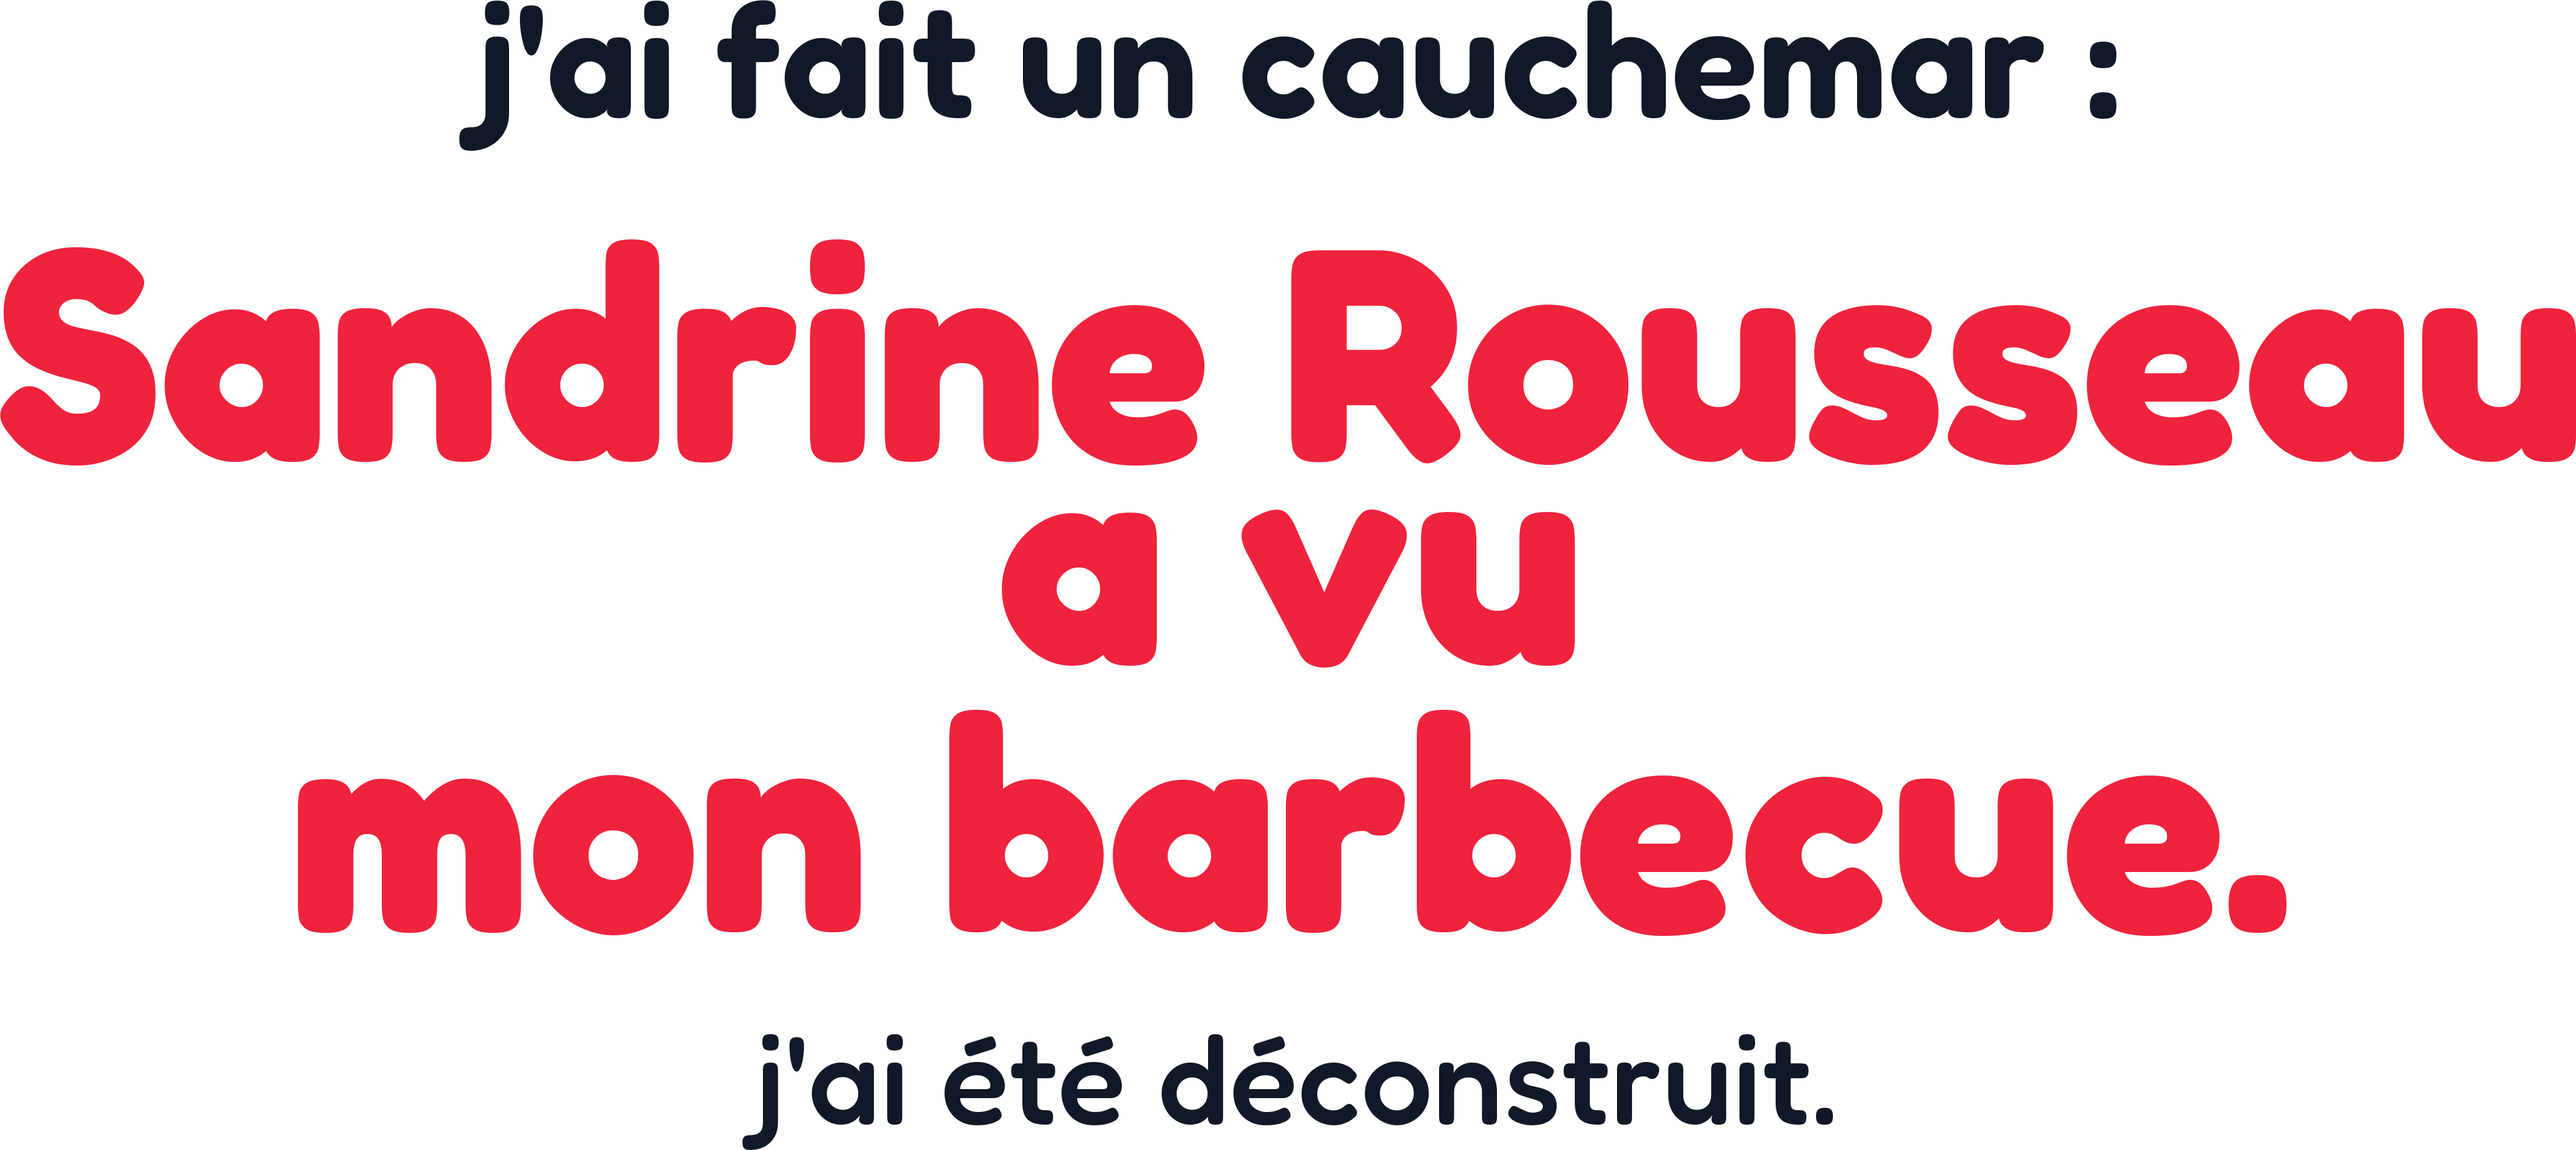
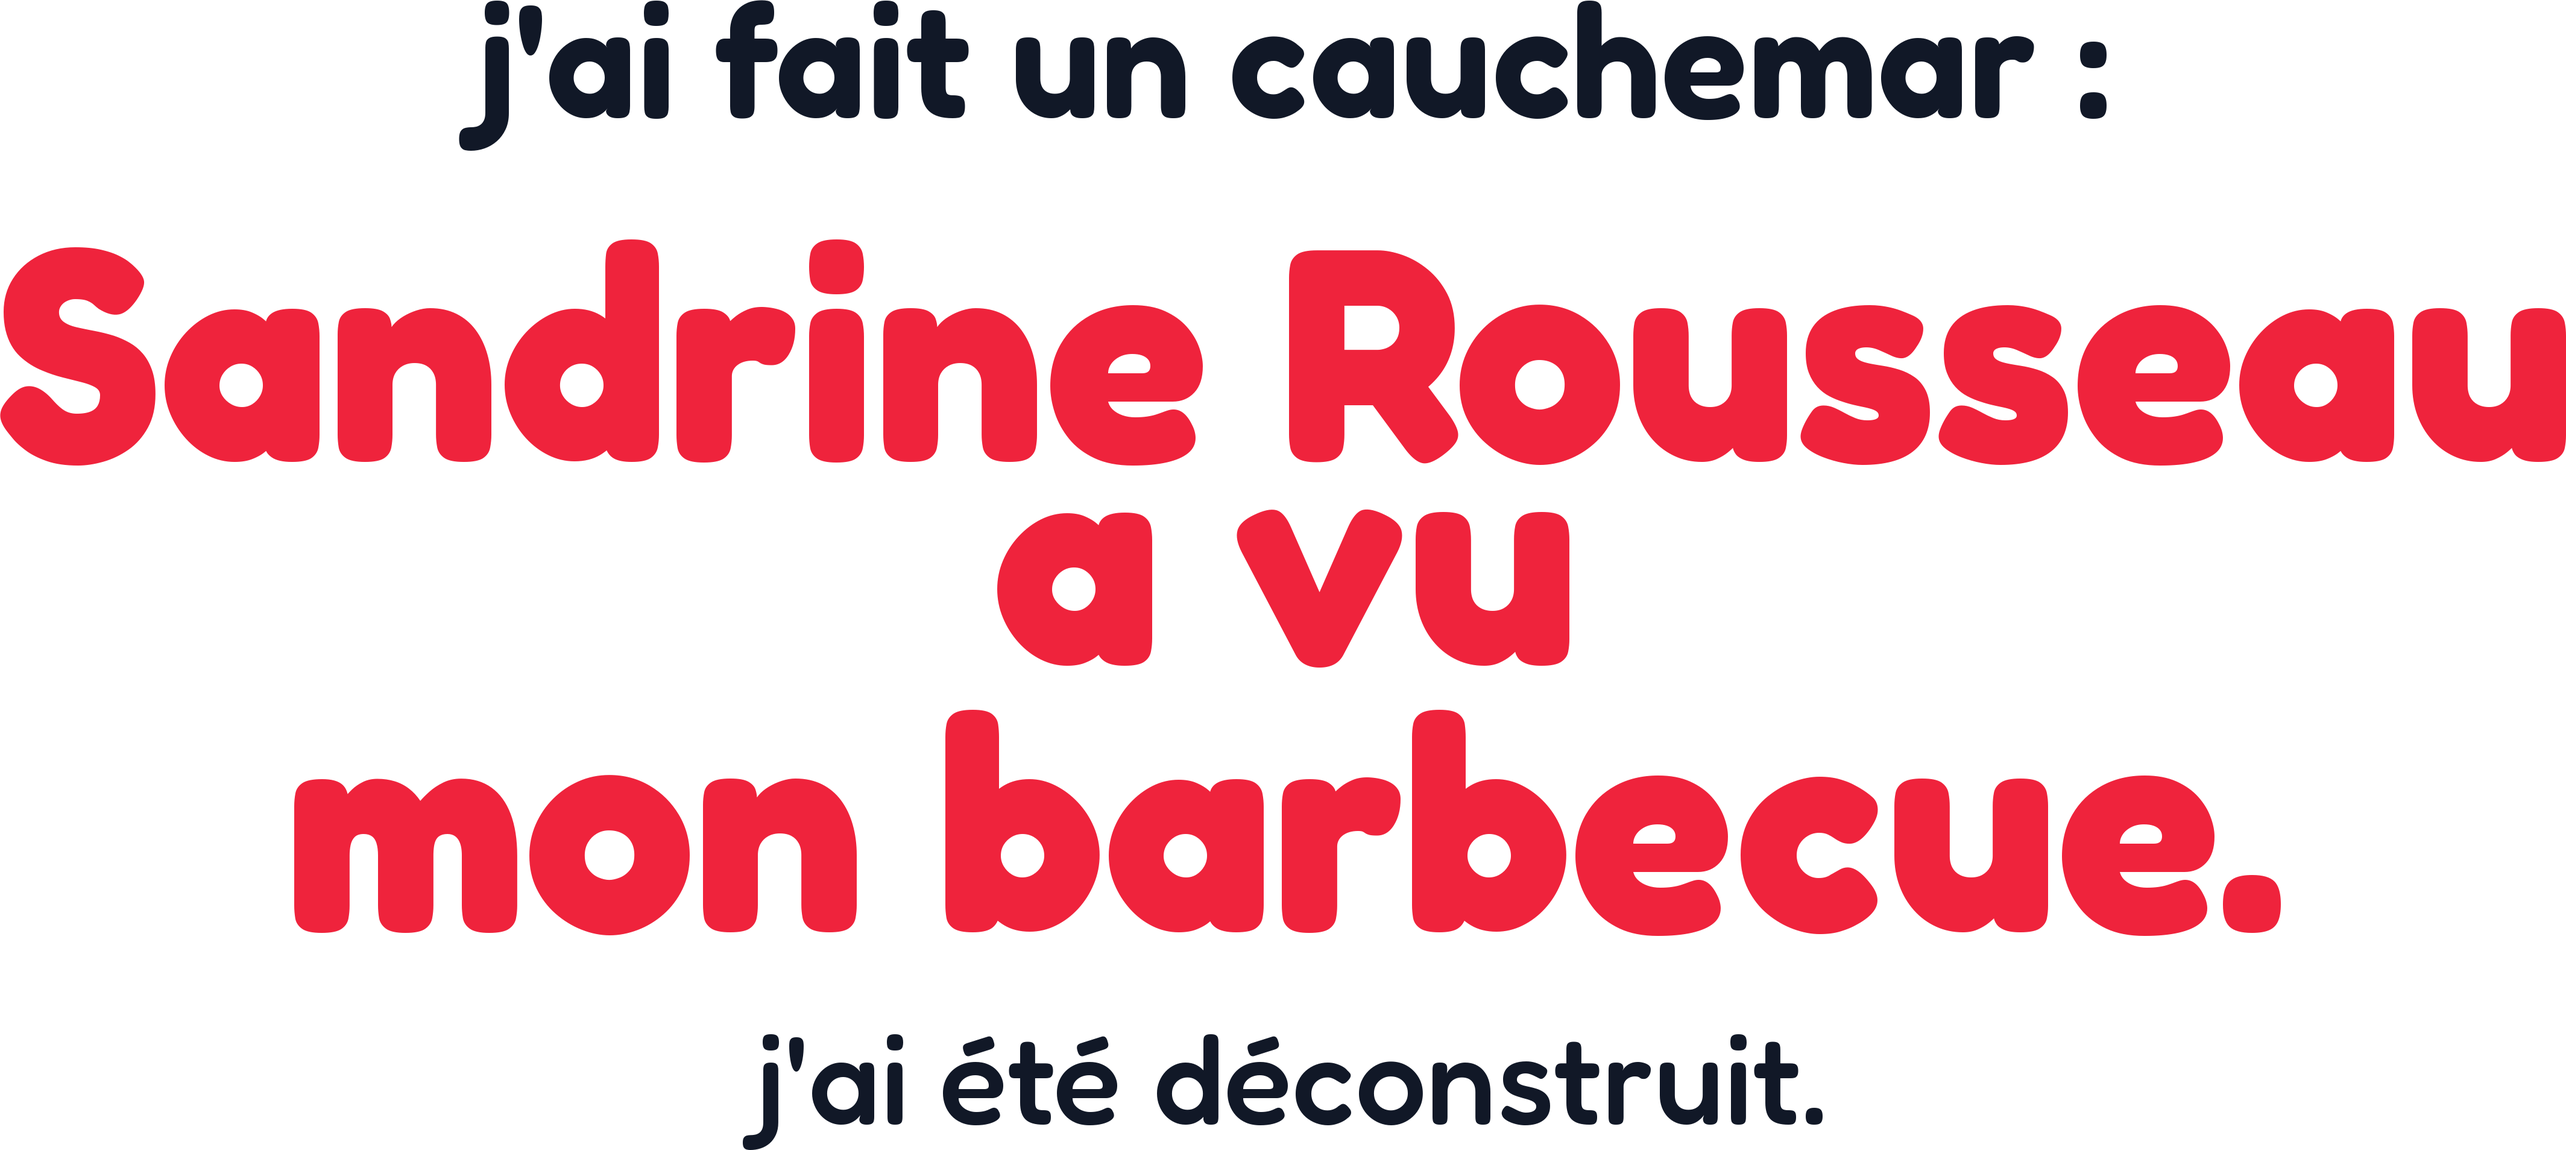
T-shirts : deux gammes « J'ai fait un rêve » et « J'ai fait un cauchemar » (chutes logiques)
Claude-Session: https://claude.ai/code/session_01AwjF5Lr6g3TxjNTsQbzJ3F

diff --git a/lbf/merch_text.py b/lbf/merch_text.py
@@ -243,12 +243,11 @@ SERIE_S_V1 = [
 ]
 
 
-def cauchemar_s(chute: str, petit: str, ink, accent, fam="nunito"):
+def cauchemar_s(chute: str, petit: str, ink, accent, fam="nunito", head="j'ai fait un cauchemar :"):
     F = FONTS_S[fam]
     im = Image.new("RGBA", (W, 7000), (0, 0, 0, 0))
     d = ImageDraw.Draw(im)
     lines = chute.split("|")
-    head = "j'ai fait un cauchemar :"
     fh = sized(d, head, lambda z: F(z, 600), int(W * 0.62), 700)        # même taille d'accroche partout
     cap = int(fh.size * 2.5)                                             # chute plafonnée : série homogène
     fb = min((sized(d, t, lambda z: F(z, 900), W - 200, cap) for t in lines), key=lambda x: x.size)
@@ -355,3 +354,37 @@ if __name__ == "__main__":
         build(arg)
     else:
         compare()
+
+
+# 22/11 : deux gammes (demande du propriétaire) — « J'ai fait un rêve » (ce qui n'arrivera jamais) et
+# « J'ai fait un cauchemar » (ce qui fait vraiment peur). Aucun nom refusé par Spreadshirt (pas « Zemmour »).
+SERIE_REVE = [
+    ("glucksmann", "Glucksmann|avait un cap clair.", "puis je me suis réveillé."),
+    ("melenchon", "Mélenchon|était calme.", "c'est là que j'ai su que je rêvais."),
+    ("bardella", "Bardella|était au Parlement.", "personne ne l'a reconnu."),
+    ("macron", "le ruissellement|est arrivé|jusqu'à moi.", "3 centimes. for sure."),
+    ("marine", "le parti|gardait son nom|plus de 5 ans.", "puis je me suis réveillé."),
+    ("zemmour", "c'était mieux|maintenant.", "ben voyons."),
+]
+SERIE_CAUCHEMAR = [
+    ("glucksmann", "notre gauche,|notre gauche,|notre gauche.", "il l'a dit 7 fois. j'ai compté."),
+    ("melenchon", "Mélenchon|se présentait|une 5e fois.", "en hologramme, cette fois."),
+    ("bardella", "mon fils|voulait devenir|Bardella.", "il fait déjà des selfies."),
+    ("macron", "j'étais d'accord|avec Macron.", "en même temps."),
+    ("rousseau", "Sandrine Rousseau|a vu|mon barbecue.", "j'ai été déconstruit."),
+    ("zemmour", "j'étais coincé|en 1965.", "c'était mieux avant, paraît-il."),
+]
+
+
+def build_gammes(fam="fredoka"):
+    up = OUT / "upload"
+    up.mkdir(parents=True, exist_ok=True)
+    out = []
+    for gamme, head, serie in (("reve", "j'ai fait un rêve :", SERIE_REVE),
+                               ("cauchemar", "j'ai fait un cauchemar :", SERIE_CAUCHEMAR)):
+        for cible, chute, petit in serie:
+            name = f"{gamme}-{cible}"
+            cauchemar_s(chute, petit, (17, 24, 39, 255), RED, fam, head).save(up / f"{name}-clair.png")
+            cauchemar_s(chute, petit, (255, 253, 247, 255), RED_DARK_TEE, fam, head).save(up / f"{name}-fonce.png")
+            out.append((name, gamme, cible, head, chute, petit))
+    return out

diff --git a/docs/SPREADSHIRT_A_FAIRE.md b/docs/SPREADSHIRT_A_FAIRE.md
@@ -10,7 +10,8 @@ Dossier du dépôt lbf-studio, fichiers PNG transparents (≈ 4000 px de large) 
 1. `brand/boutique_v4/upload/` — collection « Les histoires absurdes » (montrée dans les Reels) :
    absurde-melenchon, absurde-macron, absurde-bardella, absurde-glucksmann, absurde-marine, absurde-zemmour
    - `-clair.png` → t-shirts clairs (blanc, écru) ; `-fonce.png` → t-shirts foncés (noir, marine).
-2. `brand/boutique_v3/upload/` — collection « J'ai fait un cauchemar » (12 fichiers, en attente depuis le 22/11).
+2. `brand/boutique_v3/upload/` — deux gammes (24 fichiers) : « J'ai fait un rêve » (`reve-*`, ce qui n'arrivera jamais)
+   et « J'ai fait un cauchemar » (`cauchemar-*`, ce qui fait vraiment peur). Aperçu : `brand/boutique_v3/planche_reve_cauchemar.jpg`.
 Le mot « Zemmour » est refusé par Spreadshirt : aucun design de la v4 ne contient de nom de politicien.
 Si la limite d'imports bloque encore, importer d'abord les 6 `-fonce.png` de la v4 (t-shirt noir), le reste demain.
 
